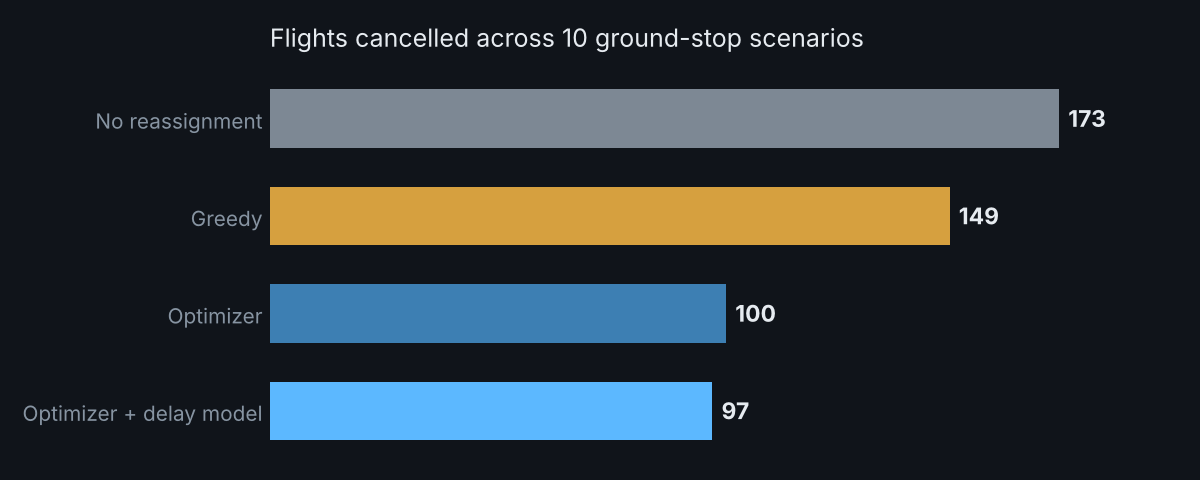
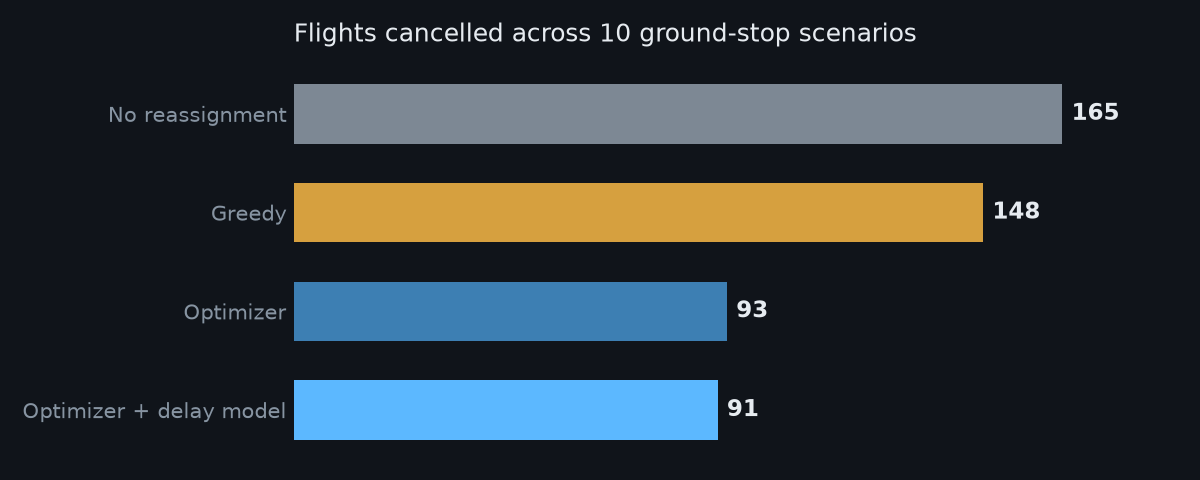
Train on real BTS flight data and Open-Meteo weather; deterministic optimizer

diff --git a/frontend/src/App.jsx b/frontend/src/App.jsx
@@ -67,7 +67,8 @@ export default function App() {
             <span>Delay model <b>{ranWith.useRisk ? 'on' : 'off'}</b></span>
             {model && (
               <span className="model-note">
-                Delay model AUC <b>{model.model_auc}</b> vs {model.baseline_auc} hour-of-day baseline
+                Delay model AUC <b>{model.model_auc}</b> vs {model.baseline_auc} baseline · trained on{' '}
+                <b>{model.data_source === 'real' ? 'real DOT flight data' : 'sample data'}</b>
               </span>
             )}
           </div>

diff --git a/scripts/download_bts.py b/scripts/download_bts.py
@@ -1,30 +1,50 @@
 """Download REAL flight and weather data to replace the generated sample data.
 
-Flights: U.S. DOT BTS On-Time Performance (monthly zip files).
-Weather: hourly observations for ATL (station 72219) via the Meteostat library.
+Flights: U.S. DOT Bureau of Transportation Statistics, On-Time Performance (monthly zips).
+Weather: hourly Atlanta weather from the Open-Meteo historical API (free, no key).
+         Times are requested in Atlanta local time, matching BTS scheduled times.
 
-Usage (from the repo root, on your own computer):
-    pip install meteostat
+Usage, from the repo root on your own computer:
+    pip install truststore        # use your computer's trusted certificates (recommended)
     python scripts/download_bts.py --year 2025 --months 6 7 8
 
-It writes backend/datasets/flights_history.csv and weather_history.csv in the
-same format the generator produces, then retrain with:
+If downloads still fail (some campus or work networks block them), download the
+files in your browser instead and point the script at them:
+    python scripts/download_bts.py --year 2025 --months 6 7 8 --local-dir ~/Downloads/bts
+
+Then retrain:
     cd backend && python -m app.predictor.train
 """
 import argparse
+import calendar
 import io
-import sys
+import json
+import time
 import urllib.request
 import zipfile
-from datetime import datetime
 from pathlib import Path
 
 import pandas as pd
+
+# Use the operating system's trusted certificates when the truststore package is
+# installed. This matches what your browser trusts (including networks that use
+# their own certificates) and keeps certificate checks fully on.
+try:
+    import truststore
+    truststore.inject_into_ssl()
+except ImportError:
+    pass
 
 ROOT = Path(__file__).resolve().parent.parent
 DATASETS = ROOT / "backend" / "datasets"
 BTS_URL = ("https://transtats.bts.gov/PREZIP/"
            "On_Time_Reporting_Carrier_On_Time_Performance_1987_present_{year}_{month}.zip")
+WEATHER_URLS = [
+    "https://archive-api.open-meteo.com/v1/archive",
+    "https://api.open-meteo.com/v1/archive",
+]
+ATL_LAT, ATL_LON = 33.6407, -84.4277
+THUNDERSTORM_CODES = {95, 96, 99}   # WMO weather codes for thunderstorms
 
 # BTS column name -> the name this project uses.
 COLUMNS = {
@@ -43,51 +63,132 @@ COLUMNS = {
 }
 
 
-def download_month(year: int, month: int) -> pd.DataFrame:
+def fetch(url: str, attempts: int = 3, timeout: int = 300) -> bytes:
+    """Download a URL, retrying a couple of times because government sites can be slow."""
+    for attempt in range(1, attempts + 1):
+        try:
+            req = urllib.request.Request(url, headers={"User-Agent": "flight-recovery-engine"})
+            with urllib.request.urlopen(req, timeout=timeout) as resp:
+                return resp.read()
+        except Exception as exc:  # noqa: BLE001 - report any network failure clearly
+            if attempt == attempts:
+                raise RuntimeError(f"Could not download {url}: {exc}") from exc
+            print(f"  attempt {attempt} failed ({exc}); retrying in 5s")
+            time.sleep(5)
+
+
+def clean_bts(raw: pd.DataFrame) -> pd.DataFrame:
+    """Keep ATL departures and convert BTS columns to the project's format."""
+    df = raw[list(COLUMNS)].rename(columns=COLUMNS)
+    df = df[df["ORIGIN"] == "ATL"].copy()
+    # BTS has used both "2025-06-01" and "6/1/2025 12:00:00 AM" over the years.
+    df["FL_DATE"] = pd.to_datetime(df["FL_DATE"], format="mixed").dt.strftime("%Y-%m-%d")
+    for col in ["CRS_DEP_TIME", "CRS_ARR_TIME", "OP_CARRIER_FL_NUM", "CANCELLED"]:
+        df[col] = pd.to_numeric(df[col], errors="coerce").fillna(0).astype(int)
+    df["CRS_DEP_TIME"] = df["CRS_DEP_TIME"].replace(2400, 2359)   # midnight edge case
+    return df.reset_index(drop=True)
+
+
+def download_month(year: int, month: int, local_dir: Path | None = None) -> pd.DataFrame:
     url = BTS_URL.format(year=year, month=month)
-    print(f"Downloading {url}")
-    with urllib.request.urlopen(url, timeout=300) as resp:
-        archive = zipfile.ZipFile(io.BytesIO(resp.read()))
-    csv_name = next(n for n in archive.namelist() if n.endswith(".csv"))
-    df = pd.read_csv(archive.open(csv_name), usecols=list(COLUMNS), low_memory=False)
-    df = df.rename(columns=COLUMNS)
-    return df[df["ORIGIN"] == "ATL"]
+    if local_dir:
+        path = local_dir / Path(url).name
+        if not path.exists():
+            raise SystemExit(f"Missing {path}\nDownload it in your browser from:\n  {url}")
+        print(f"Flights {year}-{month:02d}: reading {path.name}")
+        archive = zipfile.ZipFile(path)
+    else:
+        print(f"Flights {year}-{month:02d}: downloading (about 30-60 MB)...")
+        archive = zipfile.ZipFile(io.BytesIO(fetch(url)))
+    csv_name = next(n for n in archive.namelist() if n.lower().endswith(".csv"))
+    raw = pd.read_csv(archive.open(csv_name), usecols=list(COLUMNS), low_memory=False)
+    df = clean_bts(raw)
+    print(f"  kept {len(df):,} ATL departures")
+    return df
 
 
-def download_weather(start: datetime, end: datetime) -> pd.DataFrame:
-    try:
-        from meteostat import Hourly
-    except ImportError:
-        sys.exit("Install the weather library first: pip install meteostat")
-    wx = Hourly("72219", start, end).fetch().reset_index()   # 72219 = ATL
+def weather_from_open_meteo(payload: dict) -> pd.DataFrame:
+    """Convert an Open-Meteo hourly response into the project's weather format."""
+    h = payload["hourly"]
+    times = pd.to_datetime(pd.Series(h["time"]))
+    precip = pd.Series(h["precipitation"], dtype="float").fillna(0)
+    codes = pd.Series(h["weather_code"], dtype="float").fillna(0).astype(int)
+    thunder = codes.isin(THUNDERSTORM_CODES).astype(int)
     return pd.DataFrame({
-        "DATE": wx["time"].dt.strftime("%Y-%m-%d"),
-        "HOUR": wx["time"].dt.hour,
-        "TEMP_F": (wx["temp"] * 9 / 5 + 32).round(1),
-        "PRECIP_IN": (wx["prcp"].fillna(0) / 25.4).round(2),
-        "WIND_KT": (wx["wspd"].fillna(0) * 0.54).round(1),
-        # Meteostat has no visibility; assume clear unless it's raining.
-        "VIS_MI": wx["prcp"].fillna(0).apply(lambda p: 3.0 if p > 2 else 10.0),
-        # Condition codes 25-27 are thunderstorms in Meteostat.
-        "THUNDER": wx["coco"].fillna(0).between(25, 27).astype(int),
+        "DATE": times.dt.strftime("%Y-%m-%d"),
+        "HOUR": times.dt.hour,
+        "TEMP_F": pd.Series(h["temperature_2m"], dtype="float").round(1),
+        "PRECIP_IN": precip.round(2),
+        "WIND_KT": pd.Series(h["wind_speed_10m"], dtype="float").fillna(0).round(1),
+        # The historical API has no visibility, so estimate it from rain and storms.
+        "VIS_MI": [2.0 if t else 4.0 if p > 0.1 else 10.0 for t, p in zip(thunder, precip)],
+        "THUNDER": thunder,
     })
 
 
+def weather_query(year: int, months: list[int]) -> str:
+    start = f"{year}-{min(months):02d}-01"
+    last = max(months)
+    end = f"{year}-{last:02d}-{calendar.monthrange(year, last)[1]:02d}"
+    return (f"?latitude={ATL_LAT}&longitude={ATL_LON}&start_date={start}&end_date={end}"
+            "&hourly=temperature_2m,precipitation,wind_speed_10m,weather_code"
+            "&timezone=America%2FNew_York&temperature_unit=fahrenheit"
+            "&wind_speed_unit=kn&precipitation_unit=inch")
+
+
+def download_weather(year: int, months: list[int], local_dir: Path | None = None) -> pd.DataFrame:
+    params = weather_query(year, months)
+    if local_dir:
+        path = local_dir / "weather.json"
+        if not path.exists():
+            raise SystemExit(f"Missing {path}\nOpen this link in your browser and save the page as weather.json:\n"
+                             f"  {WEATHER_URLS[0]}{params}")
+        print(f"Weather: reading {path.name}")
+        return weather_from_open_meteo(json.loads(path.read_text()))
+    print("Weather: downloading...")
+    last_error = None
+    for base in WEATHER_URLS:
+        try:
+            payload = json.loads(fetch(base + params, timeout=120))
+            if "hourly" in payload:
+                return weather_from_open_meteo(payload)
+            last_error = payload.get("reason", payload)
+        except RuntimeError as exc:
+            last_error = exc
+    raise RuntimeError(f"Weather download failed: {last_error}")
+
+
 def main() -> None:
-    parser = argparse.ArgumentParser()
+    parser = argparse.ArgumentParser(description=__doc__, formatter_class=argparse.RawDescriptionHelpFormatter)
     parser.add_argument("--year", type=int, required=True)
-    parser.add_argument("--months", type=int, nargs="+", required=True)
+    parser.add_argument("--months", type=int, nargs="+", required=True, help="e.g. 6 7 8")
+    parser.add_argument("--local-dir", type=Path, help="folder of files you downloaded in a browser")
+    parser.add_argument("--print-links", action="store_true", help="print the download links and stop")
     args = parser.parse_args()
 
-    flights = pd.concat([download_month(args.year, m) for m in args.months], ignore_index=True)
-    start = datetime(args.year, min(args.months), 1)
-    end = datetime(args.year + (max(args.months) == 12), max(args.months) % 12 + 1, 1)
-    weather = download_weather(start, end)
+    if args.print_links:
+        for m in args.months:
+            print(BTS_URL.format(year=args.year, month=m))
+        print(WEATHER_URLS[0] + weather_query(args.year, args.months) + "   (save as weather.json)")
+        return
+
+    local = args.local_dir.expanduser() if args.local_dir else None
+    flights = pd.concat([download_month(args.year, m, local) for m in args.months], ignore_index=True)
+    weather = download_weather(args.year, args.months, local)
+
+    matched = flights.assign(HOUR=flights["CRS_DEP_TIME"] // 100).merge(
+        weather, left_on=["FL_DATE", "HOUR"], right_on=["DATE", "HOUR"], how="inner")
+    if len(matched) < 0.9 * len(flights):
+        raise RuntimeError("Fewer than 90% of flights matched an hour of weather. Check the dates.")
 
     DATASETS.mkdir(parents=True, exist_ok=True)
     flights.to_csv(DATASETS / "flights_history.csv", index=False)
     weather.to_csv(DATASETS / "weather_history.csv", index=False)
-    print(f"Saved {len(flights):,} ATL departures and {len(weather):,} weather hours.")
+    (DATASETS / "SOURCE.txt").write_text(
+        f"real: BTS On-Time Performance {args.year} months {args.months}; Open-Meteo hourly weather\n")
+    print(f"\nSaved {len(flights):,} ATL departures and {len(weather):,} weather hours.")
+    print(f"Delay rate: {flights['DEP_DEL15'].mean():.1%}  Cancelled: {flights['CANCELLED'].mean():.1%}")
+    print("Next: cd backend && python -m app.predictor.train")
 
 
 if __name__ == "__main__":

diff --git a/backend/tests/test_download.py b/backend/tests/test_download.py
@@ -1,0 +1,77 @@
+"""Tests for the real-data download script, using small samples shaped like the real files.
+
+The real downloads need the internet, so these check the cleaning logic offline.
+"""
+import importlib.util
+from pathlib import Path
+
+import pandas as pd
+
+SCRIPT = Path(__file__).resolve().parents[2] / "scripts" / "download_bts.py"
+spec = importlib.util.spec_from_file_location("download_bts", SCRIPT)
+download_bts = importlib.util.module_from_spec(spec)
+spec.loader.exec_module(download_bts)
+
+
+def bts_sample(date_value):
+    """Two rows in BTS's raw column format: one ATL departure, one from another airport."""
+    return pd.DataFrame({
+        "FlightDate": [date_value, date_value],
+        "Reporting_Airline": ["DL", "AA"],
+        "Flight_Number_Reporting_Airline": [1234, 99],
+        "Origin": ["ATL", "DFW"],
+        "Dest": ["MCO", "ATL"],
+        "CRSDepTime": [2400, 1015],
+        "CRSArrTime": [130, 1330],
+        "CRSElapsedTime": [91.0, 135.0],
+        "Distance": [403.0, 731.0],
+        "DepDelay": [-3.0, 22.0],
+        "DepDel15": [0.0, 1.0],
+        "Cancelled": [0.0, 0.0],
+    })
+
+
+def test_clean_bts_keeps_only_atl_departures_in_project_format():
+    df = download_bts.clean_bts(bts_sample("2025-06-01"))
+    assert len(df) == 1
+    row = df.iloc[0]
+    assert row["ORIGIN"] == "ATL" and row["DEST"] == "MCO" and row["OP_CARRIER"] == "DL"
+    assert row["FL_DATE"] == "2025-06-01"
+    assert row["CRS_DEP_TIME"] == 2359            # 2400 (midnight) is moved to 23:59
+
+
+def test_clean_bts_handles_the_older_date_format():
+    df = download_bts.clean_bts(bts_sample("6/1/2025 12:00:00 AM"))
+    assert df.iloc[0]["FL_DATE"] == "2025-06-01"
+
+
+def test_open_meteo_response_becomes_hourly_weather():
+    payload = {"hourly": {
+        "time": ["2025-06-01T00:00", "2025-06-01T15:00", "2025-06-01T16:00"],
+        "temperature_2m": [74.1, 91.3, 85.0],
+        "precipitation": [0.0, 0.62, 0.15],
+        "wind_speed_10m": [5.2, 24.0, None],
+        "weather_code": [0, 95, 61],
+    }}
+    wx = download_bts.weather_from_open_meteo(payload)
+    assert list(wx["HOUR"]) == [0, 15, 16]
+    assert list(wx["THUNDER"]) == [0, 1, 0]       # only code 95 is a thunderstorm
+    assert list(wx["VIS_MI"]) == [10.0, 2.0, 4.0]
+    assert wx["WIND_KT"].iloc[2] == 0             # missing wind becomes 0
+    assert set(wx.columns) == {"DATE", "HOUR", "TEMP_F", "PRECIP_IN", "WIND_KT", "VIS_MI", "THUNDER"}
+
+
+def test_downloaded_format_trains_the_model(tmp_path, monkeypatch):
+    """Cleaned BTS + weather data must flow through the same feature builder as sample data."""
+    from app.predictor.features import build_features
+
+    flights = download_bts.clean_bts(bts_sample("2025-06-01"))
+    flights["HOUR"] = flights["CRS_DEP_TIME"] // 100
+    weather = download_bts.weather_from_open_meteo({"hourly": {
+        "time": [f"2025-06-01T{h:02d}:00" for h in range(24)],
+        "temperature_2m": [80.0] * 24, "precipitation": [0.0] * 24,
+        "wind_speed_10m": [8.0] * 24, "weather_code": [0] * 24,
+    }})
+    joined = flights.merge(weather, left_on=["FL_DATE", "HOUR"], right_on=["DATE", "HOUR"])
+    X, _ = build_features(joined)
+    assert len(X) == 1 and "THUNDER" in X.columns

diff --git a/backend/app/predictor/train.py b/backend/app/predictor/train.py
@@ -12,7 +12,7 @@ import numpy as np
 from sklearn.metrics import brier_score_loss, roc_auc_score
 from xgboost import XGBClassifier
 
-from app.config import MODEL_META_PATH, MODEL_PATH
+from app.config import DATASETS_DIR, MODEL_META_PATH, MODEL_PATH
 from app.data.loader import load_training_frame
 from app.predictor.features import build_features
 
@@ -36,7 +36,11 @@ def main() -> dict:
     hourly_rate = train.groupby("HOUR")["DEP_DEL15"].mean()
     p_base = test["HOUR"].map(hourly_rate).fillna(y_train.mean()).to_numpy()
 
+    source_file = DATASETS_DIR / "SOURCE.txt"
+    source = source_file.read_text().strip() if source_file.exists() else "unknown"
     metrics = {
+        "data_source": "real" if source.startswith("real") else "sample",
+        "data_detail": source,
         "train_rows": int(len(train)),
         "test_rows": int(len(test)),
         "test_delay_rate": round(float(y_test.mean()), 3),
@@ -52,6 +56,11 @@ def main() -> dict:
         "metrics": metrics,
     }, indent=2))
     print(json.dumps(metrics, indent=2))
+    if metrics["data_source"] == "real":
+        print(f"\nTrained on REAL data: {source}")
+    else:
+        print("\nTrained on SAMPLE data. For real data, first run:\n"
+              "  python scripts/download_bts.py --year 2025 --months 6 7 8   (from the repo root)")
     return metrics
 
 

diff --git a/backend/app/recovery/strategies.py b/backend/app/recovery/strategies.py
@@ -106,8 +106,11 @@ def optimized(legs: list[Leg], crews: list[Crew], use_risk: bool = True) -> list
                 model.AddAtMostOne(o[0] for o in options if o[2].id == crew_id)
             model.Maximize(sum(o[4] * o[0] for o in options))
             solver = cp_model.CpSolver()
-            solver.parameters.max_time_in_seconds = 2.0
-            solver.parameters.num_workers = 4
+            # One worker and a fixed seed make results identical on every computer.
+            # Each hourly problem is small, so the solver still proves the best answer quickly.
+            solver.parameters.num_workers = 1
+            solver.parameters.random_seed = 42
+            solver.parameters.max_time_in_seconds = 10.0
             solver.Solve(model)
             for var, leg, crew, dep, _ in options:
                 if solver.Value(var):

diff --git a/backend/app/data/generate.py b/backend/app/data/generate.py
@@ -95,6 +95,7 @@ def main(days: int = 240, seed: int = 7) -> None:
     flights = flight_history(dates, weather, rng)
     weather.to_csv(WEATHER_CSV, index=False)
     flights.to_csv(HISTORY_CSV, index=False)
+    (DATASETS_DIR / "SOURCE.txt").write_text("sample: generated by app.data.generate\n")
     print(f"Wrote {len(flights):,} flights and {len(weather):,} weather hours to {DATASETS_DIR}")
 
 
